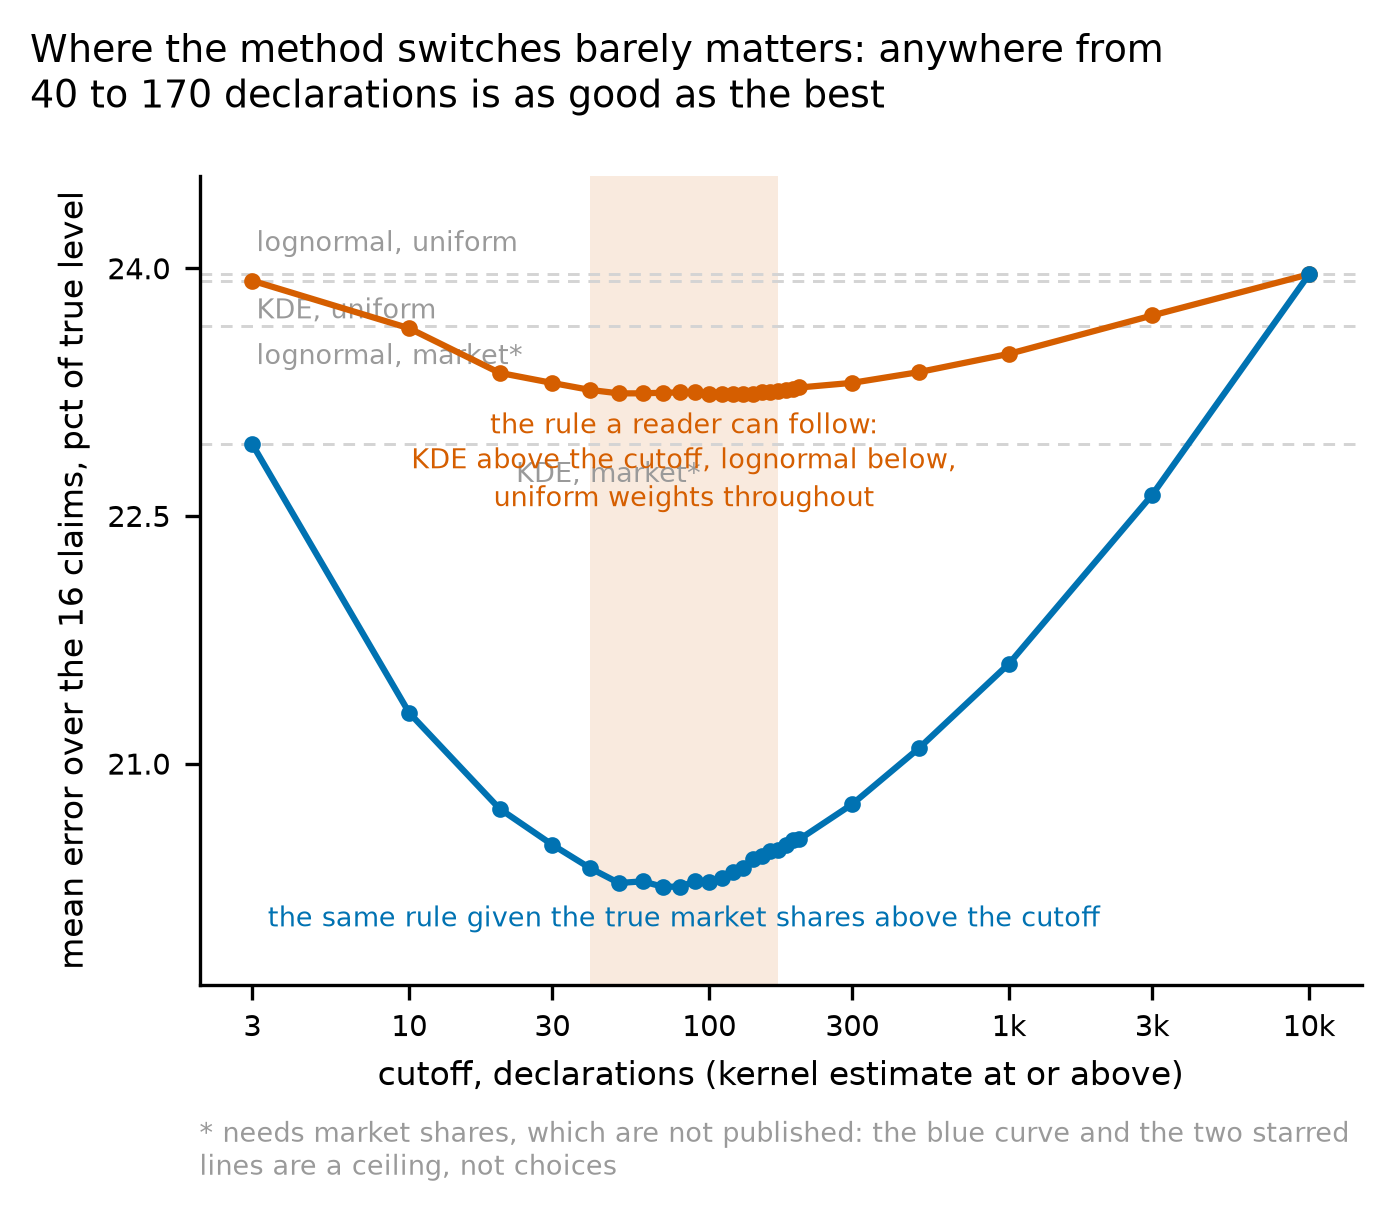
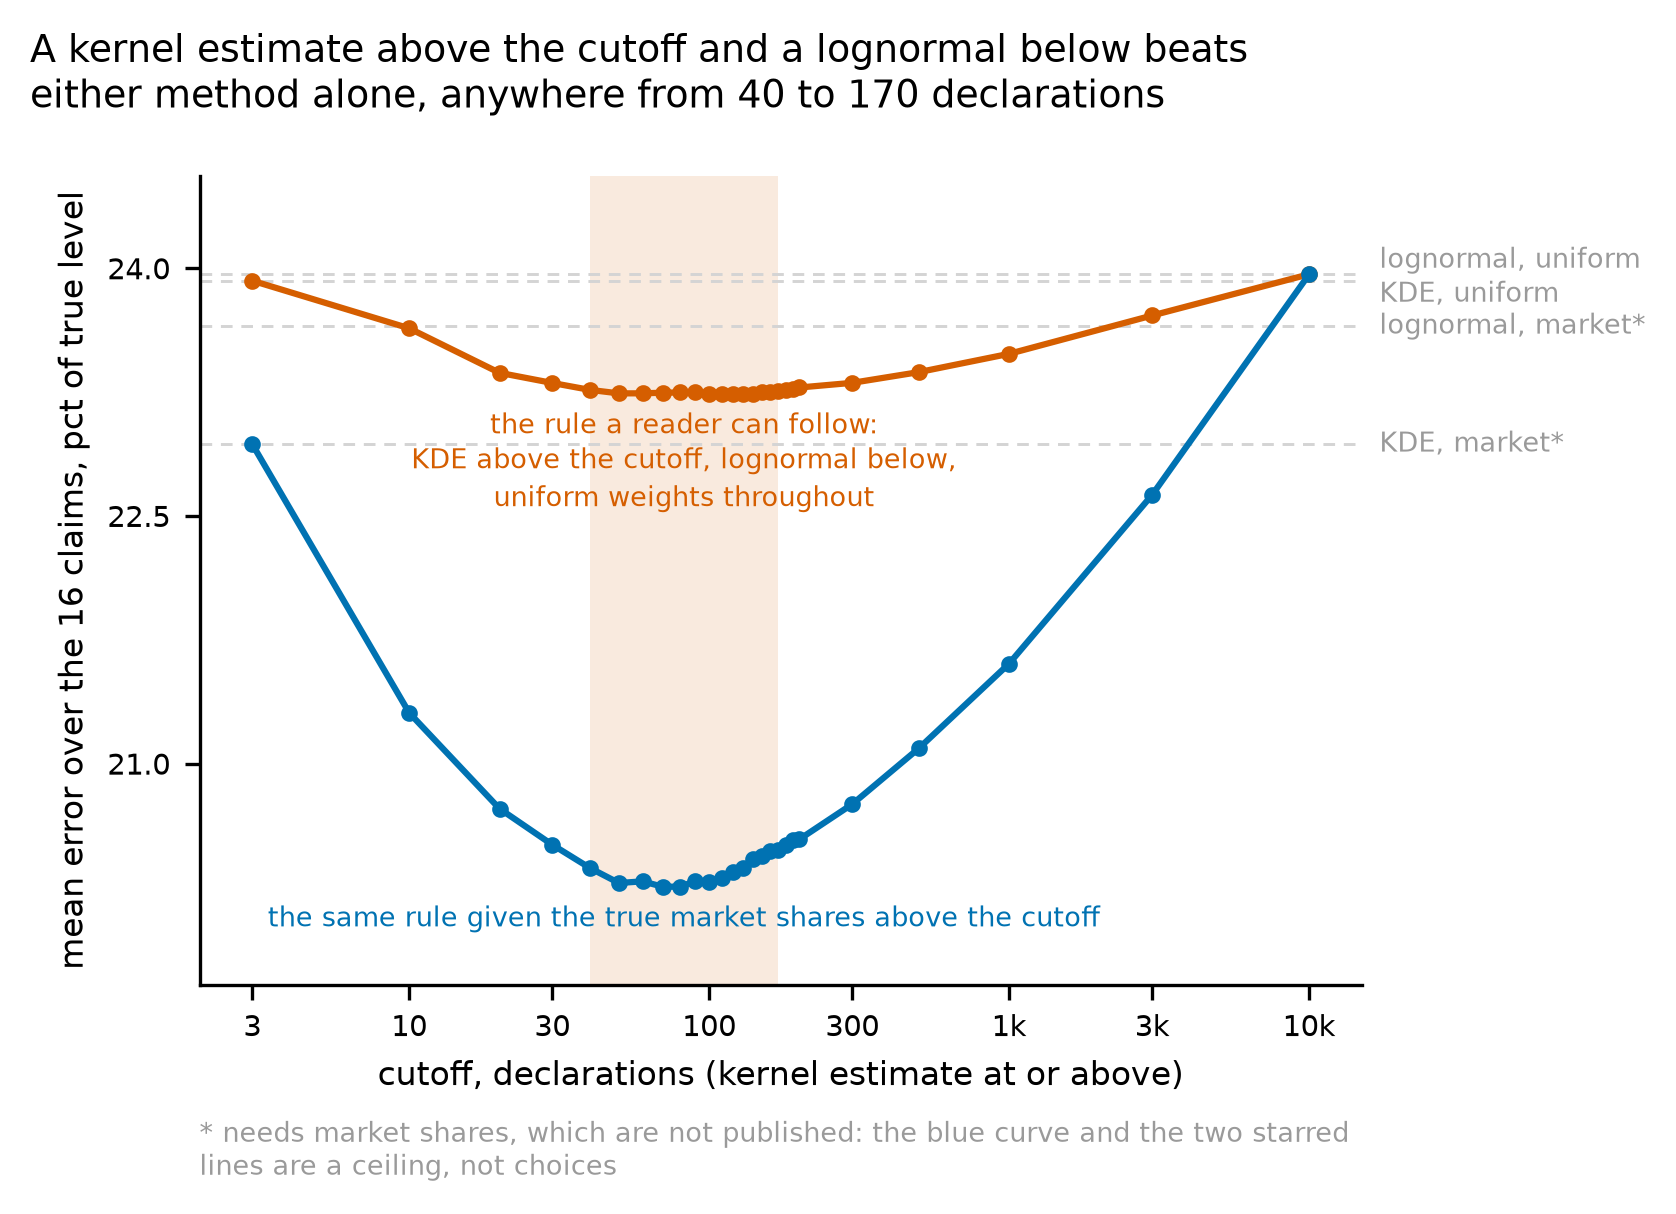
Move the reference labels outside the panel, and make the title a claim
THE FOUR REFERENCE LABELS SIT OUTSIDE THE RIGHT EDGE. Inside the panel they had
nowhere to go: four lines, two of them 0.04 points apart, over a region two
curves already occupy, and every placement collided with something. Outside the
axes there is nothing to collide with and bbox_inches='tight' grows the saved
figure to hold them. The top pair still points one up and one down, because 0.04
points is less than a line of text however much room is to the right of it.

THE TITLE IS A POSITIVE CLAIM. "Where the method switches barely matters" is
true and was the wrong headline: what the panel shows is that the split BEATS
either method used alone, and that where it goes is loose. The range is
interpolated from the sweep so the title cannot go stale. It stops short of "the
best UQ method", because a kernel estimate with market weights is better still
and is on the panel as a starred line.

AND A NOTE ON HOW THIS WENT WRONG TWICE IN ONE EDIT. Two index-based slices of
the cell source deleted the suptitle's arguments and then the whole savefig
call, and the second was only caught because the renderer raised. Exact-match
replacement with an assertion would have failed loudly instead; index arithmetic
over source text has no such guard and should not be used on these cells again.

diff --git a/reports/STAGE_REPORT_2j.md b/reports/STAGE_REPORT_2j.md
@@ -123,7 +123,10 @@ its own true level, against the cutoff on a log axis.
 **Orange is the rule a reader can follow**: a kernel estimate at or above the
 cutoff, a three-parameter lognormal below, uniform weights throughout. **The
 shaded band is its answer -- 40 to 170 declarations, all indistinguishable from
-the best.** The curve's own ends are the self-check: at a cutoff of 3 every
+the best** -- and the title states the positive form: the split beats either
+method used alone, anywhere in that range. It stops short of calling it the best
+UQ method, because a kernel estimate with market weights is better still and is
+on the panel as a starred line. The curve's own ends are the self-check: at a cutoff of 3 every
 dataset takes a kernel estimate and at 10,000 every dataset takes a lognormal,
 and both land on those fixed methods to 0.00e+00.
 
@@ -149,7 +152,8 @@ size-band table, which compare every method on every claim.
 declarations. The orange runs 23.92 at a cutoff of 3, down to 23.24 near 130,
 back to 23.96 at 10,000. The blue runs 22.93 down to 20.25 near 70 and back to
 23.96, meeting the orange curve there. Four horizontal dashed lines at 23.96,
-23.92, 23.65 and 22.93, and a shaded band over 40 to 170.
+23.92, 23.65 and 22.93, labelled outside the right edge, and a shaded band over
+40 to 170.
 
 ## 3. What the rule buys, claim by claim
 
